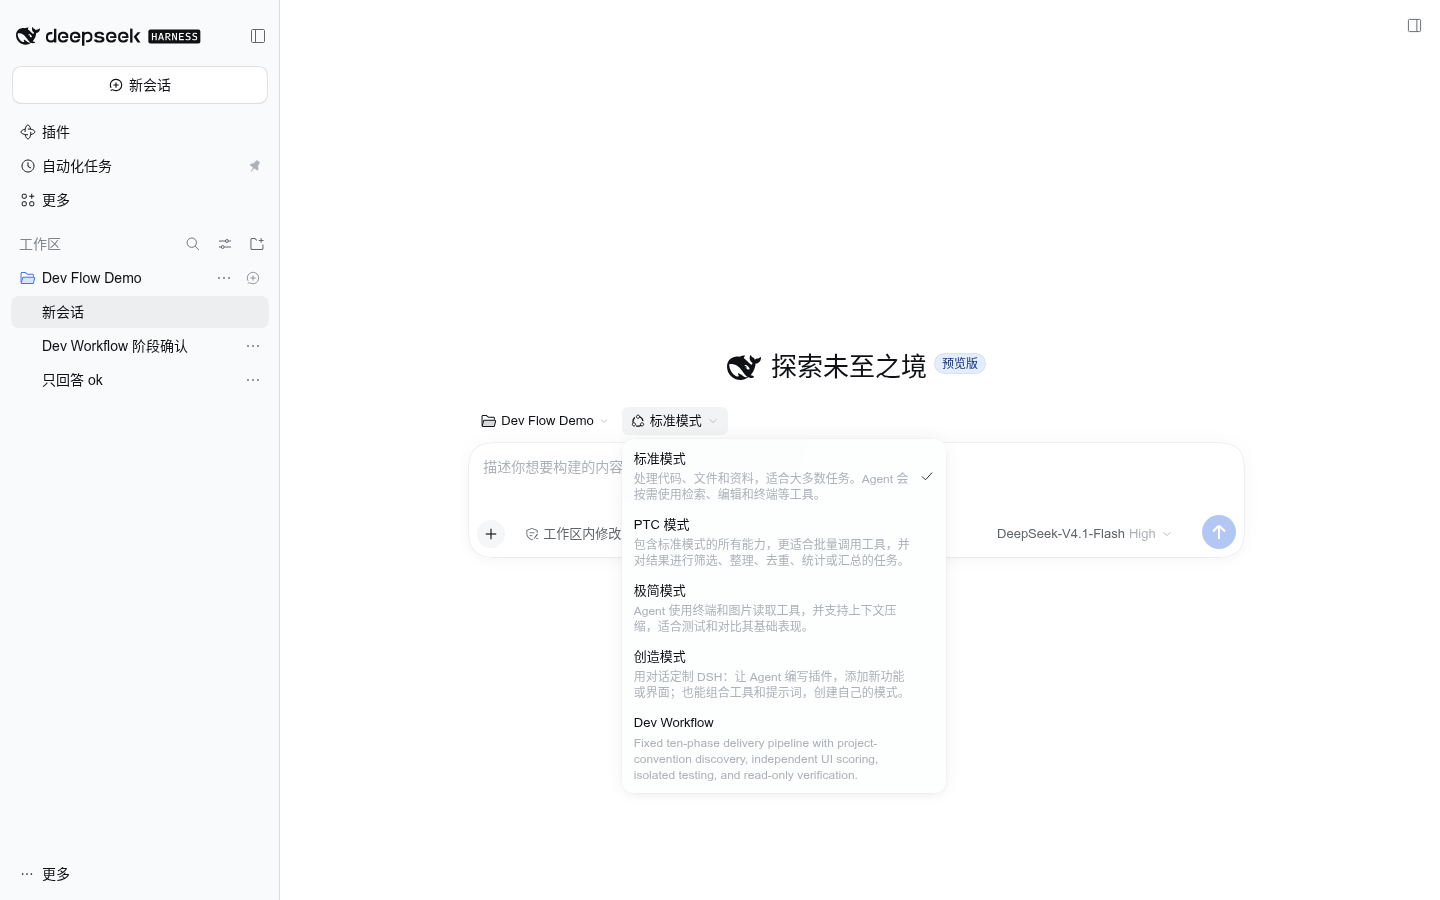
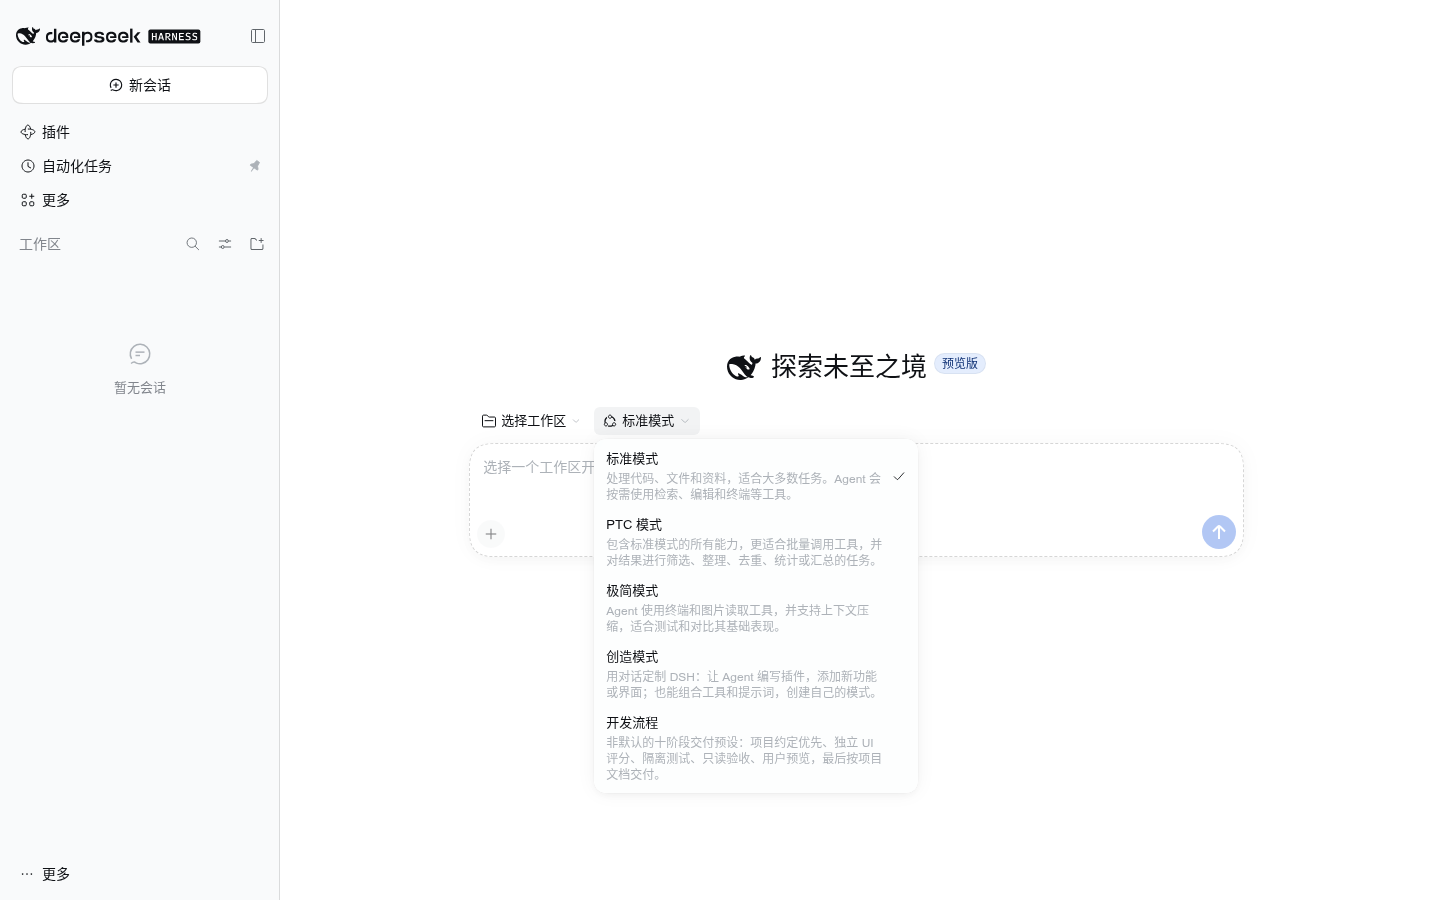
fix: localize preset roster copy for zh-CN

diff --git a/docs/VERIFICATION.md b/docs/VERIFICATION.md
@@ -41,7 +41,7 @@ contained:
   name: '@deepseek-ai/dsh-agent-preset'
   config:
     id: dev-workflow
-    name: Dev Workflow
+    name: 开发流程
     order: 5
 ```
 
@@ -57,21 +57,31 @@ and the preset registry still read:
 
 `dsh --profile devflow-test --port 3091 --no-open` printed a URL and served the
 GUI. The new-session screen showed the preset menu with **Standard** selected
-and **Dev Workflow** listed last. See
+and **开发流程 (Dev Workflow)** listed last. See
 [`screenshot-preset.png`](screenshot-preset.png).
 
 The page loaded with no console errors, no horizontal overflow, and no failed
 images. The screenshot tool's only warning was low contrast on built-in preset
 description text, which is part of DSH's existing menu, not this bundle.
 
-Selecting **Dev Workflow** changed the composer seat label; a fresh session
+Selecting **开发流程** changed the composer seat label; a fresh session
 afterwards still showed **Standard** as the default. See
 [`screenshot-preset.png`](screenshot-preset.png) and
 the new-session screenshot captured during the test.
 
+## 3b. Language
+
+DSH `0.2.2-rc.5`'s `presetDisplayText` translates only shipped presets;
+user-authored preset metadata is static. This bundle declares Chinese roster
+copy (**开发流程**) to match the `zh_CN` system; the bundle card and detail page
+localize through `locale/*.json`. Changing the DSH UI language alone does not
+retranslate the roster metadata; an English deployment must replace the two
+strings in `cordis.patch.yml` before installing. This is a platform limitation,
+not a missing locale file.
+
 ## 4. Prompt injection
 
-The Dev Workflow session's log recorded:
+The 开发流程 session's log recorded:
 
 ```json
 {"type":"agent-preset/selected","data":{"agentPreset":"dev-workflow"}}
@@ -98,7 +108,7 @@ This is the prompt-injection and project-document evidence; see the session tran
 
 ## 5. Tool availability
 
-The request header for the Dev Workflow session listed 24 tools, including
+The request header for the 开发流程 session listed 24 tools, including
 `subagent`, `subagent_fork`, `workflow`, `todo_write`, `ask_user_question`,
 `skill`, `read`, `write`, `edit`, `glob`, `grep`, `bash`, `job_*`, `web_*`, and
 `present`.
@@ -159,20 +169,37 @@ They were unchanged after the test, and all mtimes predate it. No
 
 ## 9. Display metadata
 
-The Plugins page showed the bundle under **已安装插件** as **Dev Workflow** with
+The Plugins page showed the bundle under **已安装插件** as **开发流程（Dev Workflow）** with
 the local icon, Chinese description, version `v0.1.0`, and the
 `preset-dev-workflow` component running. The detail page rendered the Chinese
 `meta.description`, the `preview.svg` image, and the source link. See
 The Plugins page and detail page were checked in the disposable GUI; a detail-page screenshot is not shipped because its source link shows a local test path.
 
+## 10. Current profile install
+
+After the disposable test, the user's current `web` profile was changed with
+explicit permission and a full profile backup was taken first:
+
+- `@xiaoxie-ide/dsh-devflow` 1.5.1 removed with
+  `plugin_manager remove_bundle`; result `application: applied`.
+- `dsh-dev-workflow` 0.1.0 installed from the packed tarball with
+  `plugin_manager install_bundle`; result `application: applied`.
+- `package.json` and `pnpm-lock.yaml` contain no old DevFlow reference.
+- The composed tree contains `preset-dev-workflow` with the Chinese roster copy
+  and no `preset-devflow`; `agent-preset-registry` still reads
+  `default: standard`.
+- The old plugin's project data directory (`.devflow/` in the workspace) was
+  left untouched because it is user data, not plugin installation residue.
+
 ## Not verified
 
-- Installing through the Web **Plugins > Add plugin** flow or the agent
-  `plugin_manager` tool (both target the current profile; testing them would
-  require approval and a profile change). The CLI path uses the same
-  `runProfilePnpm`/`reconcile` code and was verified.
-- Live HMR application without restart. The disposable server was restarted
-  after install and removed after shutdown.
+- The Web **Plugins > Add plugin** directory-picker flow was not clicked; the
+  agent `plugin_manager` install/remove path was exercised on the current
+  profile.
+- Visual confirmation in the already-open GUI after live HMR. The current
+  profile reported `application: applied`, but the authenticated GUI URL is
+  only in the user's browser; the roster was verified in a fresh disposable GUI
+  and by the current profile's `--dump-config`.
 - `subagent_fork`, plan-mode toggle, `todo_write`, and `ask_user_question` were
   present in the schema but not each exercised end to end.
 - Other DSH versions, Windows/macOS, headless/SDK/ACP profiles.

diff --git a/README.md b/README.md
@@ -3,15 +3,15 @@
 [English](README.md) | [中文](README.zh.md)
 
 A **non-default** agent preset for [DeepSeek Harness](https://github.com/deepseek-ai/deepseek-harness).
-Pick **Dev Workflow** for a session and describe what you want changed; the
-agent follows a fixed ten-phase delivery pipeline instead of asking you to
-paste a long prompt each time.
+Pick **开发流程** (Dev Workflow) for a session and describe what you want
+changed; the agent follows a fixed ten-phase delivery pipeline instead of
+asking you to paste a long prompt each time.
 
 Installing the bundle only adds the preset. It does **not** change the profile's
 default preset, does not add a Host-wide row, and does not affect sessions that
 use Standard or another preset.
 
-![Dev Workflow in the new-session preset menu](docs/screenshot-preset.png)
+![开发流程 (Dev Workflow) in the new-session preset menu](docs/screenshot-preset.png)
 
 ## What it does
 
@@ -55,18 +55,20 @@ cp -a "$PROFILE_DIR" "$PROFILE_DIR.backup-$(date +%Y%m%d-%H%M%S)"
 2. Choose **Add plugin** and select the `dsh-dev-workflow` directory (or install
    the published npm package when one exists).
 3. Keep the bundle enabled. It adds the preset only; it does not select it.
-4. Open a new session, open the preset menu, choose **Dev Workflow**.
+4. Open a new session, open the preset menu, choose **开发流程**.
 
 ### With the `plugin_manager` agent tool
 
 ```text
 plugin_manager action=install_bundle target=/absolute/path/to/dsh-dev-workflow
+# or a packed release tarball:
+plugin_manager action=install_bundle target=/absolute/path/to/dsh-dev-workflow-0.1.0.tgz
 ```
 
 The target is the bundle directory containing `package.json` and
-`cordis.patch.yml`. Installing runs package management and bundle selection;
-no manual profile edit is needed. Installing bundle code requires Full access
-or approval in DSH.
+`cordis.patch.yml`, or a packed release tarball. Installing runs package
+management and bundle selection; no manual profile edit is needed. Installing
+bundle code requires Full access or approval in DSH.
 
 ### Command-line alternative
 
@@ -87,7 +89,7 @@ dsh --profile <profile> --dump-config | grep -A2 agent-preset-registry
 ```
 
 The second command should still show the original default (for example
-`default: standard`). A new session's preset roster should list **Dev Workflow**.
+`default: standard`). A new session's preset roster should list **开发流程** (Dev Workflow).
 
 ## Use
 
@@ -135,9 +137,13 @@ profile on DSH `0.2.2-rc.5`. Details, evidence, and unverified items are in
 
 ## What it does not do
 
-- It does not make **Dev Workflow** the default.
-- The preset roster description is a single declaration string and is not
-  localized; the bundle card and detail page are localized.
+- It does not make **开发流程** the default.
+- DSH 0.2.2-rc.5 translates only shipped presets (`presetDisplayText`);
+  user-authored preset metadata is static. This bundle declares Chinese roster
+  copy (**开发流程**) to match a zh-CN system. The bundle card and detail page
+  are localized through `locale/*.json`. For an English roster, replace the
+  two strings in `cordis.patch.yml` before installing; changing DSH's UI
+  language alone does not retranslate them.
 - It does not enforce role isolation at the sandbox level; the roles and write
   scopes are enforced by prompts and by the parent's review. If a future DSH
   release adds per-child tool restrictions, wire them in.

diff --git a/README.zh.md b/README.zh.md
@@ -3,13 +3,13 @@
 [English](README.md) | [中文](README.zh.md)
 
 一个**非默认**的 [DeepSeek Harness](https://github.com/deepseek-ai/deepseek-harness)
-智能体预设。为新会话选择 **Dev Workflow** 后，只需要描述“哪里不满意、要改成
+智能体预设。为新会话选择 **开发流程**（Dev Workflow）后，只需要描述“哪里不满意、要改成
 什么、期望效果”，Agent 会按固定的十阶段交付流程推进，不需要每次粘贴长 Prompt。
 
 安装这个 bundle 只新增预设：**不会**修改 profile 的默认预设，不会注册
 Host 级的全局行，也不会影响使用 Standard 或其他预设的会话。
 
-![新会话预设菜单中的 Dev Workflow](docs/screenshot-preset.png)
+![新会话预设菜单中的开发流程](docs/screenshot-preset.png)
 
 ## 它做什么
 
@@ -52,17 +52,19 @@ cp -a "$PROFILE_DIR" "$PROFILE_DIR.backup-$(date +%Y%m%d-%H%M%S)"
 2. 选择 **Add plugin**，选中 `dsh-dev-workflow` 目录（如果之后发布了 npm
    包，也可以安装对应包）。
 3. 保持 bundle 启用。它只新增预设，不会自动选中。
-4. 新建会话，打开预设菜单，选择 **Dev Workflow**。
+4. 新建会话，打开预设菜单，选择 **开发流程**。
 
 ### 通过 `plugin_manager` 工具
 
 ```text
 plugin_manager action=install_bundle target=/绝对路径/dsh-dev-workflow
+# 或已打包的 release tarball：
+plugin_manager action=install_bundle target=/绝对路径/dsh-dev-workflow-0.1.0.tgz
 ```
 
-target 是包含 `package.json` 和 `cordis.patch.yml` 的 bundle 目录。安装会执行
-包管理和 bundle 选择，不需要手工改 profile。安装 bundle 代码需要 Full access
-或审批。
+target 是包含 `package.json` 和 `cordis.patch.yml` 的 bundle 目录，或打包好的
+release tarball。安装会执行包管理和 bundle 选择，不需要手工改 profile。安装
+bundle 代码需要 Full access 或审批。
 
 ### 命令行替代方式
 
@@ -82,7 +84,7 @@ dsh --profile <profile> --dump-config | grep -A2 agent-preset-registry
 ```
 
 第二条应仍显示原来的默认值（例如 `default: standard`）。新会话的预设列表中
-应能看到 **Dev Workflow**。
+应能看到 **开发流程**（Dev Workflow）。
 
 ## 使用
 
@@ -126,8 +128,8 @@ dsh --profile <profile> --dump-config | grep -A2 agent-preset-registry
 
 ## 它不做什么
 
-- 不会把 **Dev Workflow** 设为默认预设。
-- 预设菜单里的描述来自声明中的单个字符串，不做本地化；bundle 卡片和详情页是本地化的。
+- 不会把 **开发流程** 设为默认预设。
+- DSH 0.2.2-rc.5 的 `presetDisplayText` 只翻译内置 preset；自定义 preset 的名称/描述是静态字符串。本 bundle 的菜单文案使用中文（**开发流程**）以匹配 zh-CN 系统；bundle 卡片和详情页通过 `locale/*.json` 本地化。若要英文菜单，请在安装前替换 `cordis.patch.yml` 中的这两个字符串；仅切换 DSH 界面语言不会重新翻译它们。
 - 不做 sandbox 级的角色隔离；角色和写作用域由 prompt 与父 Agent 的检查保证。
   如果未来的 DSH 版本提供子智能体工具限制，应接入。
 - 不安装项目 skill、设计系统、浏览器或测试框架；使用项目和会话已有的能力。
